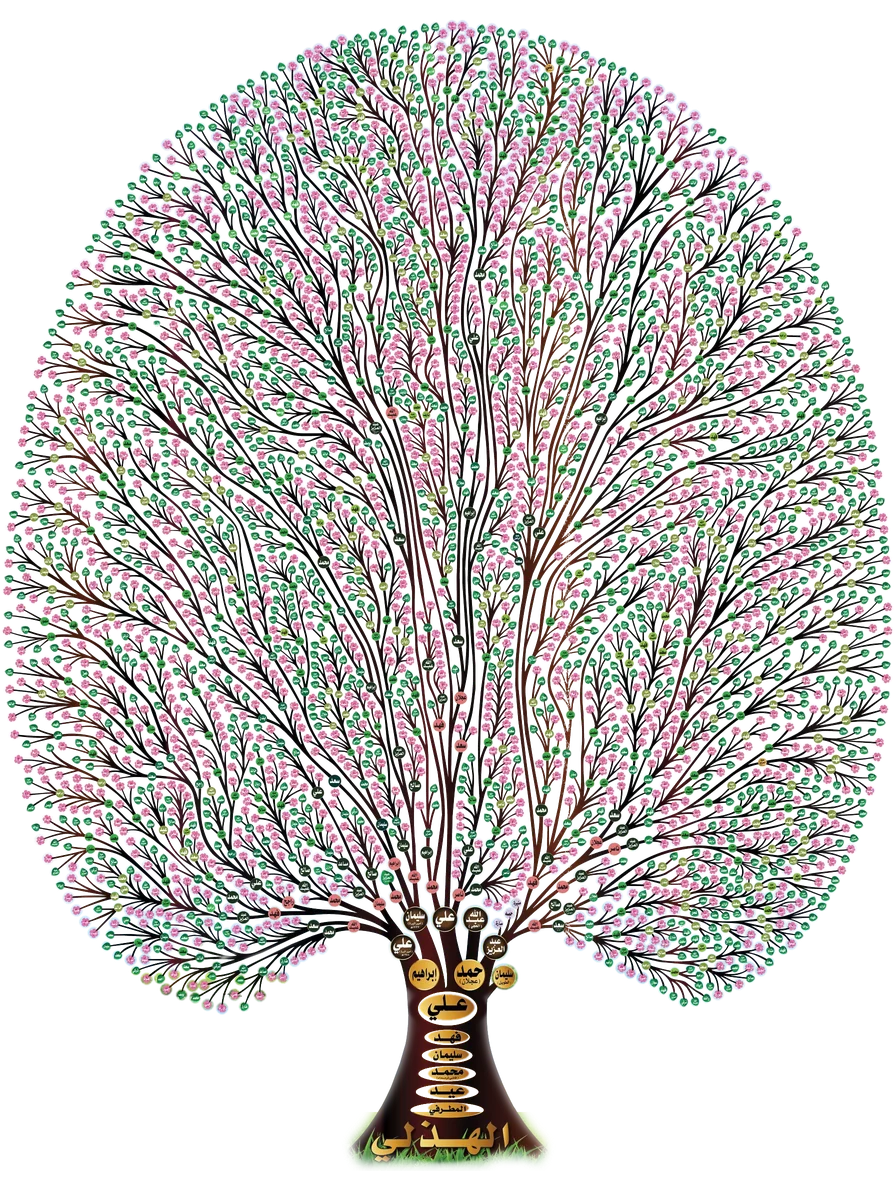
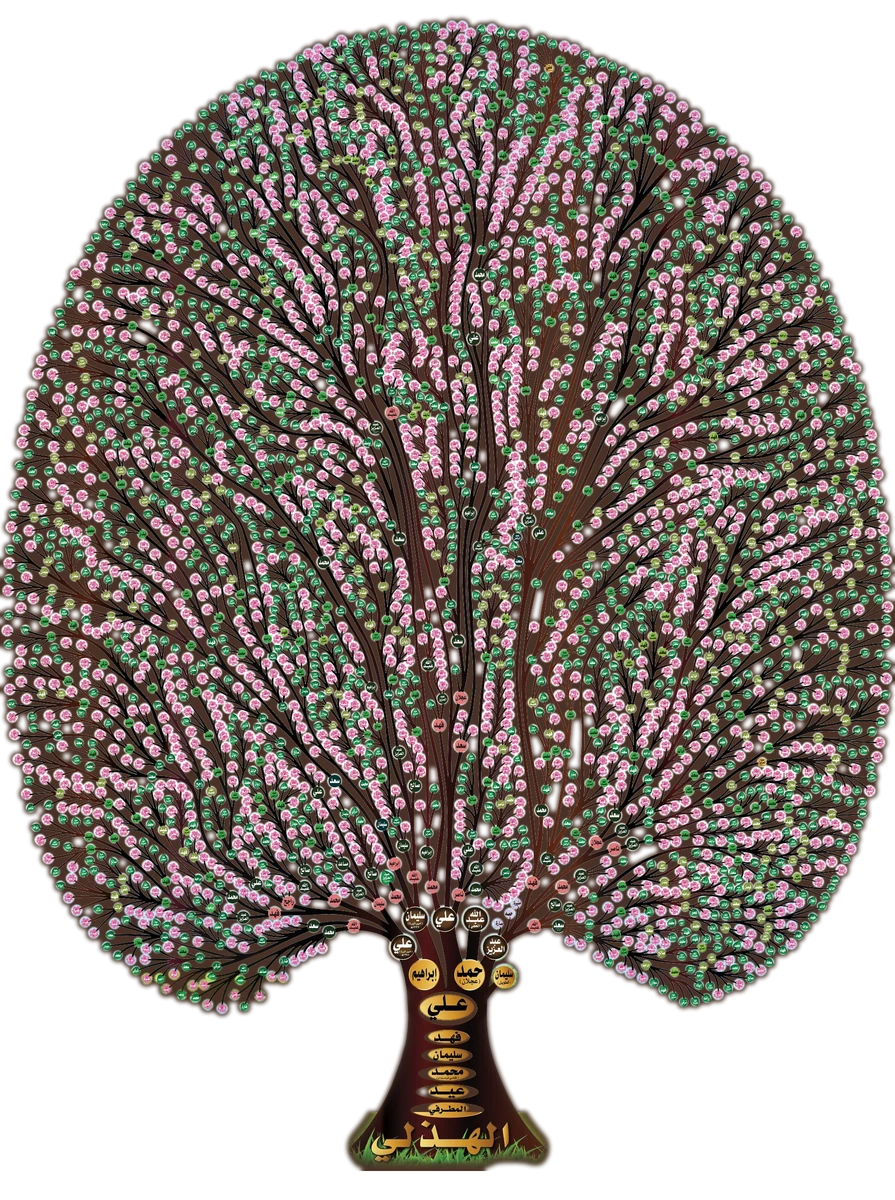
Homepage tree: crisp like the tree page (crown backing, above haze)

diff --git a/portal/home.preClear.css b/portal/home.preClear.css
@@ -1,0 +1,309 @@
+/* الصفحة الرئيسية «الديرة عند الغروب» — حسب portal/تصميم-الرئيسية.md */
+body.home{background:#2A2148}
+#scene{position:fixed;inset:0;z-index:-2;background:url(img/bg-scene.jpg?v=3) center bottom/cover no-repeat}
+#scene::after{content:"";position:absolute;inset:0;background:linear-gradient(180deg,rgba(20,16,48,.10) 0%,rgba(20,16,48,.18) 45%,rgba(20,16,48,.55) 80%,rgba(20,16,48,.78) 100%)}
+@media (max-width:639px){#scene{background-image:url(img/bg-scene-portrait.jpg?v=3);background-position:50% 78%}}
+.glass-panel{background:rgba(251,250,247,.88);backdrop-filter:blur(18px) saturate(1.2);-webkit-backdrop-filter:blur(18px) saturate(1.2);border:1px solid rgba(255,255,255,.6);box-shadow:0 24px 64px rgba(20,16,48,.28)}
+.hwrap{width:min(1280px,100% - 32px);margin-inline:auto}
+
+/* البانر بعرض الشاشة */
+.hb{position:relative;margin-top:var(--nav);height:360px;overflow:hidden;background:#1A1448;border-bottom:1px solid rgba(192,133,55,.7);box-shadow:0 24px 48px -12px rgba(20,16,48,.45)}
+@media (max-width:1023px){.hb{height:clamp(240px,32vw,320px)}}
+@media (max-width:639px){.hb{height:auto;aspect-ratio:16/9}}
+.hb .s{position:absolute;inset:0;opacity:0;transition:opacity .9s cubic-bezier(.4,0,.2,1)}
+.hb .s.on{opacity:1}
+.hb .s img{width:100%;height:100%;object-fit:cover;object-position:center;transform:scale(1.04);transition:transform 7s linear}
+.hb .s.on img{transform:scale(1)}
+.hb::after{content:"";position:absolute;inset:auto 0 0;height:30%;background:linear-gradient(0deg,rgba(20,16,48,.45),transparent);pointer-events:none}
+.hb .bars{position:absolute;z-index:3;bottom:20px;left:0;right:0;display:flex;justify-content:center;gap:8px}
+.hb .bars button{width:44px;height:24px;border:0;background:none;cursor:pointer;display:grid;place-items:center;padding:0}
+.hb .bars i{display:block;width:28px;height:3px;border-radius:3px;background:rgba(255,255,255,.4);overflow:hidden;position:relative}
+.hb .bars i b{position:absolute;inset:0 0 0 auto;width:0;background:#E3B66B}
+.hb .pp{position:absolute;z-index:3;bottom:16px;left:16px;width:36px;height:36px;border-radius:50%;border:0;background:rgba(20,16,48,.45);backdrop-filter:blur(8px);color:#fff;display:grid;place-items:center;cursor:pointer}
+.hb .ar{position:absolute;z-index:3;top:50%;margin-top:-22px;width:44px;height:44px;border-radius:50%;border:0;background:rgba(251,250,247,.85);color:var(--navy);display:grid;place-items:center;cursor:pointer;opacity:0;transition:opacity .2s}
+.hb:hover .ar{opacity:1}
+.hb .ar.prev{right:24px}.hb .ar.next{left:24px}
+@media (max-width:639px){.hb .ar{display:none}.hb .bars i{width:20px}}
+
+/* الشبكة: الشجرة يمين، السجل يسار */
+.hgrid{display:grid;grid-template-columns:392px 1fr;grid-template-areas:"tree news";gap:32px;padding-top:56px;align-items:start}
+@media (max-width:1023px){.hgrid{grid-template-columns:1fr;grid-template-areas:"news" "tree";gap:24px;padding-top:24px}}
+
+/* سجل الأسرة */
+.log{grid-area:news;border-radius:24px;padding:32px;min-height:700px;display:flex;flex-direction:column}
+.log-h{display:flex;align-items:flex-end;justify-content:space-between;gap:12px}
+.log-h small{display:block;font-size:13px;font-weight:700;color:#8A5A1C}
+.log-h h2{font-size:28px;font-weight:800;color:var(--navy);line-height:1.3}
+.log-h a{font-size:15px;font-weight:700;color:#8A5A1C;display:inline-flex;gap:6px;align-items:center}
+.log-h a span{transition:transform .2s}.log-h a:hover{text-decoration:underline}.log-h a:hover span{transform:translateX(-4px)}
+.seg{position:relative;display:inline-flex;margin-top:20px;padding:4px;border-radius:999px;background:#F1EDE4;max-width:100%;overflow-x:auto;scrollbar-width:none}
+.seg::-webkit-scrollbar{display:none}
+.seg .puck{position:absolute;top:4px;bottom:4px;border-radius:999px;background:#fff;box-shadow:0 1px 3px rgba(20,16,48,.12);transition:all .26s cubic-bezier(.4,0,.2,1)}
+.seg button{position:relative;z-index:1;height:32px;padding:0 16px;border:0;background:none;border-radius:999px;font:700 14px Cairo,sans-serif;color:#1B1833;white-space:nowrap;cursor:pointer}
+.seg button small{font-size:12px;font-weight:600;color:#5B5670;margin-inline-start:4px}
+.seg button.on{color:var(--navy)}
+.log-b{display:grid;grid-template-columns:1fr 296px;gap:24px;margin-top:20px;flex:1}
+.idx{transition:opacity .18s}
+.row{position:relative;display:grid;grid-template-columns:64px 1fr;align-items:center;min-height:76px;padding:6px 12px 6px 0;border-bottom:1px solid #E8E3D8;border-radius:12px;transition:background .2s}
+.row:last-child{border-bottom-color:transparent}
+.row::before{content:"";position:absolute;right:0;top:12px;bottom:12px;width:3px;border-radius:3px;background:var(--gold);transform:scaleY(0);transition:transform .2s}
+.row.on,.row:hover,.row:focus-visible{background:#fff;outline:none}
+.row.on::before,.row:hover::before{transform:scaleY(1)}
+.row .dt{text-align:center;border-inline-end:1px solid #E8E3D8;padding-inline-end:8px;margin-inline-end:16px;line-height:1.2}
+.row .dt b{display:block;font-size:28px;font-weight:800;color:#8A5A1C}
+.row .dt small{font-size:12px;font-weight:600;color:#5B5670}
+.row .tx em{font-style:normal;font-size:12px;font-weight:700;color:#5B5670;display:flex;align-items:center;gap:6px}
+.row .tx em i{width:7px;height:7px;transform:rotate(45deg);display:inline-block}
+.row .tx b{font-size:16px;font-weight:700;color:#1B1833;line-height:1.55;display:-webkit-box;-webkit-line-clamp:2;-webkit-box-orient:vertical;overflow:hidden}
+.row.on .tx b,.row:hover .tx b{color:var(--navy)}
+.row .th{display:none}
+.pv{position:relative}
+.pv .ph{position:relative;aspect-ratio:4/5;border-radius:16px;overflow:hidden;box-shadow:0 12px 28px rgba(20,16,48,.18);background:var(--navy)}
+.pv .ph img{position:absolute;inset:0;width:100%;height:100%;object-fit:cover;object-position:center 25%;transition:opacity .28s,transform .28s}
+.pv .ph .date{position:absolute;z-index:2;bottom:12px;right:12px;padding:4px 10px;border-radius:999px;background:rgba(20,16,48,.55);backdrop-filter:blur(8px);color:#fff;font-size:12px;font-weight:700}
+.pv p{margin-top:14px;font-size:14px;color:#5B5670;line-height:1.8;display:-webkit-box;-webkit-line-clamp:3;-webkit-box-orient:vertical;overflow:hidden}
+.years{display:flex;align-items:center;gap:8px;flex-wrap:wrap;margin-top:18px}
+.years span{font-size:13px;font-weight:700;color:#5B5670}
+.years a{height:32px;display:inline-flex;align-items:center;padding:0 12px;border-radius:999px;border:1px solid #D6CEBD;font-size:13px;font-weight:700;color:#1B1833}
+.years a:hover{background:#EEECF8;color:var(--navy)}
+.log .allm{display:none}
+@media (max-width:1023px){
+  .log{padding:20px;border-radius:20px;min-height:0}
+  .log-b{grid-template-columns:1fr}.pv{display:none}
+  .row{grid-template-columns:52px 1fr 72px;min-height:96px;gap:0}
+  .row .dt b{font-size:24px}
+  .row .th{display:block;width:72px;height:72px;border-radius:12px;background:#E8E3D8 center/cover;margin-inline-start:10px}
+  .row .tx b{font-size:15px}
+  .years{display:none}
+  .log .allm{display:flex;margin-top:14px;height:48px;border-radius:14px;border:1.5px solid var(--navy);color:var(--navy);font-weight:700;font-size:15px;align-items:center;justify-content:center}
+}
+
+/* الشجرة */
+.htree{grid-area:tree;position:relative}
+.htree .halo{position:absolute;inset:0 0 140px;background:radial-gradient(ellipse 60% 55% at 50% 45%,rgba(20,16,48,.42),transparent 70%);pointer-events:none}
+.htree .st{position:relative;height:560px}
+.htree .st img{position:absolute;left:50%;bottom:40px;height:500px;width:auto;max-width:none;transform:translateX(-50%);filter:drop-shadow(0 18px 24px rgba(0,0,0,.35));transition:filter .5s}
+.htree .st img.pulse{filter:drop-shadow(0 18px 24px rgba(0,0,0,.35)) drop-shadow(0 6px 14px rgba(227,182,107,.75))}
+.htree .ground{position:absolute;left:50%;bottom:30px;width:260px;height:28px;margin-left:-130px;border-radius:50%;background:rgba(10,8,24,.55);filter:blur(10px)}
+.htree .gbar{position:absolute;left:50%;bottom:24px;width:120px;height:2px;margin-left:-60px;border-radius:2px;background:#E3B66B;opacity:.35;transition:opacity .6s,box-shadow .6s}
+.htree canvas{position:absolute;inset:0;width:100%;height:100%;pointer-events:none}
+.tinfo{border-radius:20px;padding:20px;display:flex;flex-direction:column;gap:6px}
+.tinfo .l1{font-size:15px;font-weight:700;color:#1B1833}
+.tinfo .l1 b{color:var(--navy);font-weight:800}
+.tinfo .live{font-size:13px;font-weight:600;color:#8A5A1C;min-height:22px;transition:opacity .2s}
+.tinfo .cta{margin-top:6px;height:48px;border-radius:14px;background:#C08537;color:#1B1833;font-size:15px;font-weight:800;display:flex;align-items:center;justify-content:center;gap:8px;transition:background .2s}
+.tinfo .cta:hover{background:#B4772C}
+@media (max-width:1023px){.htree{width:min(420px,100%);margin-inline:auto}}
+@media (max-width:639px){.htree .st{height:470px}.htree .st img{height:420px}}
+
+/* وصول سريع */
+.quick{display:grid;grid-template-columns:repeat(6,1fr);gap:16px;margin-top:64px}
+.qa{border-radius:20px;padding:20px;display:flex;flex-direction:column;gap:6px;min-height:128px;background:rgba(251,250,247,.86);backdrop-filter:blur(16px);-webkit-backdrop-filter:blur(16px);border:1px solid rgba(255,255,255,.6);transition:all .2s}
+.qa i{width:48px;height:48px;border-radius:50%;display:grid;place-items:center;background:#FBF3E6;color:#C08537;transition:all .2s}
+.qa b{font-size:16px;font-weight:800;color:#1B1833}
+.qa small{font-size:13px;font-weight:500;color:#5B5670;line-height:1.5}
+.qa:hover{background:#fff;transform:translateY(-3px);box-shadow:0 16px 32px rgba(20,16,48,.25)}
+.qa:hover i{background:#EEECF8;color:var(--navy)}
+@media (max-width:1023px){.quick{grid-template-columns:repeat(3,1fr)}}
+@media (max-width:639px){.quick{grid-template-columns:repeat(2,1fr);gap:12px;margin-top:32px}.qa{min-height:104px;padding:16px}.qa i{width:40px;height:40px}}
+.breath{height:96px}
+@media (max-width:639px){.breath{height:64px}}
+body.home footer{margin-top:0}
+@media (prefers-reduced-motion:reduce){.hb .s img{transition:none;transform:none}}
+.hgrid>*,.log-b>*,.log>*{min-width:0}
+.seg{max-width:100%}
+
+/* ===== تعديل: البانر أصغر ويطفو فوق المشهد، والمشهد يبان من حوله ومن خلاله ===== */
+.hb{width:min(1180px,100% - 32px);height:300px;margin:calc(var(--nav) + 28px) auto 0;border-radius:24px;border:1px solid rgba(255,255,255,.35);
+  background:rgba(26,20,72,.18);box-shadow:0 30px 60px -20px rgba(20,16,48,.55),0 0 0 6px rgba(251,250,247,.12);backdrop-filter:blur(2px)}
+.hb .s img{opacity:.9;-webkit-mask-image:linear-gradient(90deg,transparent 0%,#000 9%,#000 91%,transparent 100%);mask-image:linear-gradient(90deg,transparent 0%,#000 9%,#000 91%,transparent 100%)}
+.hb::before{content:"";position:absolute;inset:0;z-index:2;pointer-events:none;border-radius:inherit;box-shadow:inset 0 0 60px rgba(20,16,48,.35);background:linear-gradient(180deg,rgba(227,182,107,.08),transparent 40%)}
+.hb::after{border-radius:0 0 24px 24px}
+@media (max-width:1023px){.hb{height:clamp(200px,28vw,280px)}}
+@media (max-width:639px){.hb{height:auto;aspect-ratio:16/9;border-radius:18px;margin-top:calc(var(--nav) + 14px)}.hb .s img{-webkit-mask-image:none;mask-image:none}}
+.hgrid{padding-top:40px}
+
+/* يوميات الأسرة: لوح أشف يبان من وراه الغروب */
+.log.glass-panel,.tinfo.glass-panel{background:rgba(251,250,247,.72);backdrop-filter:blur(14px) saturate(1.25);-webkit-backdrop-filter:blur(14px) saturate(1.25);border:1px solid rgba(255,255,255,.5)}
+.row{transition:background .2s}
+.row.on,.row:hover{background:rgba(255,255,255,.82)}
+.seg{background:rgba(241,237,228,.75)}
+.qa{background:rgba(251,250,247,.72)}
+
+/* الشريط العلوي زجاج شفاف ينعكس فيه المشهد */
+body.home .nav{background:linear-gradient(180deg,rgba(255,255,255,.52),rgba(251,250,247,.34));backdrop-filter:blur(20px) saturate(1.7) brightness(1.08);-webkit-backdrop-filter:blur(20px) saturate(1.7) brightness(1.08);
+  border-bottom:1px solid rgba(255,255,255,.45);box-shadow:inset 0 1px 0 rgba(255,255,255,.7),0 10px 30px rgba(20,16,48,.12)}
+body.home .nav::before{content:"";position:absolute;inset:0;pointer-events:none;background:linear-gradient(105deg,transparent 30%,rgba(255,255,255,.28) 45%,transparent 60%);opacity:.7}
+body.home .nav.solid{background:rgba(251,250,247,.86);border-bottom-color:rgba(192,133,55,.35)}
+body.home .menu>a,body.home .dd-b{color:#141030;text-shadow:0 1px 0 rgba(255,255,255,.55)}
+body.home .tree-btn{background:rgba(50,39,129,.88);backdrop-filter:blur(6px);box-shadow:inset 0 1px 0 rgba(255,255,255,.25),0 6px 16px rgba(20,16,48,.25)}
+
+/* ===== نافذة الديرة: المشهد ظاهر كامل بلا غطاء، والشجرة في الساحة بين الجبل والبرج ===== */
+.vista{position:relative;margin-top:28px;border-radius:26px;overflow:hidden;aspect-ratio:2.25/1;box-shadow:0 30px 60px -20px rgba(20,16,48,.55),0 0 0 1px rgba(255,255,255,.35)}
+.vista .vbg{position:absolute;inset:0;background:url(img/bg-scene.jpg?v=3) center 18%/100% auto no-repeat}
+.vista .vbg::after{content:"";position:absolute;inset:0;background:linear-gradient(0deg,rgba(20,16,48,.45) 0%,transparent 26%)}
+/* الشجرة: قاعدتها على أرض الساحة (١١٪ من الأسفل) وبين الجبل (٣٦٪) والبرج (٧٧٪) */
+.vista .vtree{position:absolute;left:57%;bottom:9.5%;height:64%;transform:translateX(-50%);aspect-ratio:1790/2342}
+.vista .vtree img{width:100%;height:100%;filter:drop-shadow(0 12px 16px rgba(0,0,0,.4));transition:filter .5s}
+.vista .vtree img.pulse{filter:drop-shadow(0 12px 16px rgba(0,0,0,.4)) drop-shadow(0 4px 14px rgba(255,214,140,.9))}
+.vista canvas{position:absolute;inset:0;width:100%;height:100%;pointer-events:none}
+.vcap{position:absolute;right:22px;bottom:18px;display:flex;align-items:center;gap:14px;padding:10px 16px;border-radius:14px;background:rgba(20,16,48,.45);backdrop-filter:blur(10px);-webkit-backdrop-filter:blur(10px);color:#fff}
+.vcap b{font-size:16px;font-weight:800}
+.vcap span{font-size:13px;color:#F6E2B6;min-width:150px;transition:opacity .2s}
+.vcap a{font-size:14px;font-weight:800;color:#E3B66B;white-space:nowrap}
+.hgrid.one{grid-template-columns:1fr;grid-template-areas:"news";padding-top:28px}
+.hgrid.one .log{min-height:0}
+.hgrid.one .log-b{grid-template-columns:1fr 340px}
+@media (max-width:1023px){.hgrid.one .log-b{grid-template-columns:1fr}}
+@media (max-width:639px){
+  .vista{aspect-ratio:4/5;margin-top:16px;border-radius:20px}
+  .vista .vbg{background-size:auto 100%;background-position:58% 0}
+  .vista .vtree{left:52%;bottom:13%;height:52%}
+  .vcap{left:12px;right:12px;bottom:12px;justify-content:space-between;gap:8px;padding:8px 12px}.vcap span{display:none}
+}
+/* الخلفية الثابتة خلف الرئيسية تصير جو مغبش، والمعالم الواضحة في نافذة الديرة فقط */
+body.home:not(.mags) #scene{filter:blur(16px) brightness(.72) saturate(1.15);transform:scale(1.08)}
+/* نافذة الديرة مع الخلفية السابقة (٢٫٤:١): الجبل يسار، البرج يمين، والأرض عند ٧٩٪ */
+.vista .vbg{background-size:cover;background-position:center 50%}
+.vista .vtree{left:56%;bottom:15%;height:62%}
+@media (max-width:639px){.vista .vbg{background-size:auto 100%;background-position:52% 0}.vista .vtree{left:50%;bottom:17%;height:50%}}
+@media (max-width:639px){.vista .vbg{background-image:url(img/bg-scene-portrait.jpg?v=3);background-size:100% auto;background-position:center 100%}.vista .vtree{left:47%;bottom:16%;height:50%}}
+/* الخلفية كاملة وواضحة في الرئيسية بعد (بطلب فهد) */
+body.home:not(.mags) #scene{filter:none;transform:none}
+/* نافذة الديرة على الخلفية الجديدة (١٦:٩): الجبل والشمس يسار، والبرج يمين، والأرض عند ٨٣٪ */
+.vista{aspect-ratio:16/9}
+.vista .vbg{background-image:url(img/bg-scene.jpg?v=3);background-size:cover;background-position:center}
+.vista .vtree{left:64%;bottom:15%;height:60%}
+@media (max-width:639px){.vista{aspect-ratio:4/3}.vista .vbg{background-image:url(img/bg-scene.jpg?v=3);background-size:cover;background-position:center}.vista .vtree{left:63%;bottom:15%;height:58%}}
+
+/* الصفحات الداخلية بنفس فكرة الرئيسية */
+.hgrid.inner{padding-top:0;align-items:start}
+.hgrid.inner .inner-main{grid-area:news;min-width:0}
+.hgrid.inner .htree{position:sticky;top:calc(var(--nav) + 16px)}
+.hgrid.inner .news-grid{grid-template-columns:repeat(auto-fill,minmax(220px,1fr))}
+.hgrid.inner .vm,.hgrid.inner .two,.hgrid.inner .contact{grid-template-columns:1fr}
+.hgrid.inner .goals{grid-template-columns:1fr}
+.hgrid.inner .orbit-wrap{grid-template-columns:1fr;min-height:0;gap:10px}
+.hgrid.inner .orbit-wrap .oinfo{text-align:center}
+.hgrid.inner .orbit{width:min(560px,100%)}
+@media (max-width:1023px){.hgrid.inner .htree{position:relative;top:0}}
+.hgrid.inner{width:min(1280px,100% - 32px);margin-inline:auto}
+.hgrid.inner .inner-main.wrap{width:auto;margin:0}
+.hwrap .hgrid.inner{width:100%}
+
+/* الشجرة مغروسة: كومة رمل نجدي تحت الجذع تغطي العشب، مع ظل وحصى */
+.mound{position:absolute;left:50%;transform:translateX(-50%);pointer-events:none;z-index:2}
+.mound i{position:absolute;left:50%;transform:translateX(-50%);border-radius:50%}
+.mound .sh{bottom:-6%;width:120%;height:40%;background:radial-gradient(ellipse at 50% 50%,rgba(40,20,8,.55),transparent 70%);filter:blur(6px)}
+.mound .soil{bottom:0;width:100%;height:100%;border-radius:50% 50% 46% 46%/70% 70% 30% 30%;
+  background:radial-gradient(ellipse at 50% 18%,#e3b07a 0%,#c98f57 38%,#9c6a3b 70%,#6e4625 100%);
+  box-shadow:inset 0 6px 10px rgba(255,220,170,.35),inset 0 -8px 14px rgba(60,30,10,.45)}
+.mound .soil::after{content:"";position:absolute;inset:18% 12% 30%;border-radius:50%;opacity:.55;
+  background:radial-gradient(circle,#7a5030 1.2px,transparent 1.6px) 0 0/9px 7px,radial-gradient(circle,#f0c690 1px,transparent 1.4px) 4px 3px/11px 8px}
+.mound .rim{bottom:62%;width:46%;height:22%;background:radial-gradient(ellipse at 50% 60%,rgba(60,30,10,.55),transparent 70%)}
+/* مكانها تحت الشجرة في كل الصفحات */
+.htree .st .mound{bottom:22px;width:230px;height:46px}
+.htree .ground{display:none}
+.orbit .otree .mound{left:50%;bottom:-5%;width:62%;height:12%}
+@media (max-width:639px){.htree .st .mound{width:200px;height:40px}}
+
+/* تراب حقيقي تحت الشجرة (خلف قاعدة الجذع، فتبان «الهذلي» فوقه) */
+.mound{display:none}
+.soilimg{position:absolute;left:50%;transform:translateX(-50%);z-index:0;pointer-events:none;filter:drop-shadow(0 10px 12px rgba(30,15,5,.45))}
+.htree .st img#treeImg,.orbit .otree img#treeImg,.vista .vtree img{z-index:1}
+.htree .st .soilimg{bottom:14px;width:330px}
+.orbit .otree #treeImg{position:absolute;z-index:1}
+.orbit .otree .soilimg{bottom:-9%;width:96%}
+.orbit .otree canvas{z-index:2}
+.htree canvas{z-index:2}
+@media (max-width:639px){.htree .st .soilimg{width:290px;bottom:16px}}
+.htree .st img.soilimg{height:auto;max-width:none;bottom:14px;width:330px;filter:drop-shadow(0 10px 12px rgba(30,15,5,.45));transform:translateX(-50%)}
+.orbit .otree img.soilimg{inset:auto;top:auto;height:auto;left:50%;bottom:-9%;width:96%;filter:drop-shadow(0 10px 12px rgba(30,15,5,.45));transform:translateX(-50%)}
+@media (max-width:639px){.htree .st img.soilimg{width:290px;bottom:16px}}
+
+/* الشجرة مغروسة في أرض نجدية: طبقة تراب فوق قاعدة الجذع بإحداثيات الصورة نفسها (1700×422 من 1790×2342)،
+   فيها فتحة بشكل الجذع فوق خط دخوله في التراب فيبقى «الهذلي» ظاهراً فوقها */
+.htree .st{--th:500px}
+@media (max-width:639px){.htree .st{--th:420px}}
+.htree .st img.soilimg{left:50%;bottom:calc(40px - var(--th) * 180 / 2342);width:calc(var(--th) * 1700 / 2342);height:auto;max-width:none;filter:drop-shadow(0 5px 8px rgba(24,10,20,.5));transform:translateX(-50%);z-index:2}
+.orbit .otree img.soilimg{inset:auto;left:50%;bottom:-7.686%;width:94.97%;height:auto;filter:drop-shadow(0 5px 8px rgba(24,10,20,.5));transform:translateX(-50%);z-index:2}
+.htree canvas,.orbit .otree canvas{z-index:3}
+.htree .gbar{display:none}
+
+/* الشجرة ثابتة مثل جزء من الخلفية: مغروسة في الأرض يمين الشاشة، والمحتوى يتحرك وهي مكانها */
+@media (min-width:1024px){
+  .hgrid>.htree{position:fixed;z-index:1;bottom:12px;right:max(16px,calc((100vw - 1280px)/2));width:392px;
+    --sh:min(560px,calc(100vh - var(--nav) - 200px))}
+  .hgrid>.htree .st{height:var(--sh)}
+  .hgrid>.htree .st img#treeImg{height:calc(var(--sh) - 60px)}
+  .hgrid.inner>.htree{top:auto}
+  .hgrid>.htree .tinfo{margin-top:-4px}
+  .hgrid::after{content:"";grid-area:tree}
+  footer{position:relative;z-index:3}
+}
+@media (min-width:1024px){
+  .hgrid>.htree,.hgrid.inner>.htree{position:fixed;top:auto;z-index:0}
+  .hb,.hgrid>.log,.hgrid.inner>.inner-main,.quick,.more,.mhead{position:relative;z-index:1}
+}
+
+/* الشجرة مغروسة على أرض الخلفية (أسفل الشاشة) قدام البرج، بدون لوحة تحتها */
+@media (min-width:1024px){
+  .hgrid>.htree,.hgrid.inner>.htree{bottom:0;--sh:min(680px,calc(100vh - var(--nav) - 40px));width:440px;right:max(0px,calc((100vw - 1280px)/2 - 30px))}
+  .hgrid>.htree .st{height:var(--sh)}
+  .hgrid>.htree .st img#treeImg{height:calc(var(--sh) - 50px);bottom:30px}
+  .hgrid>.htree .halo{inset:0}
+}
+.tinfo{display:none}
+.tlink{position:absolute;z-index:3;left:50%;bottom:6px;transform:translateX(-50%);display:inline-flex;align-items:center;gap:6px;padding:5px 12px;border-radius:999px;
+  background:rgba(20,16,48,.55);backdrop-filter:blur(6px);color:#F6E2B6;font-size:12px;font-weight:700;white-space:nowrap;opacity:.85;transition:opacity .2s,background .2s}
+.tlink:hover{opacity:1;background:rgba(192,133,55,.9);color:#1B1833}
+@media (max-width:1023px){.htree{position:relative}.tlink{position:relative;left:auto;bottom:auto;transform:none;display:flex;width:max-content;margin:6px auto 0}}
+/* شجرة أصغر ومتناسقة: تبدأ تحت البانر وما تغطي البرج كله */
+@media (min-width:1024px){
+  .hgrid>.htree,.hgrid.inner>.htree{--sh:min(500px,calc(100vh - var(--nav) - 360px));width:360px;right:max(10px,calc((100vw - 1280px)/2))}
+}
+@media (min-width:1024px) and (max-height:820px){.hgrid>.htree,.hgrid.inner>.htree{--sh:max(340px,calc(100vh - var(--nav) - 330px))}}
+
+/* الرئيسية بدون بانر: الأخبار يمين، والشجرة يسار جهة الجبل وأكبر */
+body.home:not(.mags) .hgrid{grid-template-areas:"news tree";grid-template-columns:1fr 440px;padding-top:calc(var(--nav) + 26px)}
+@media (min-width:1024px){
+  body.home:not(.mags) .hgrid>.htree{right:auto;left:max(0px,calc((100vw - 1280px)/2 - 20px));width:480px;--sh:min(720px,calc(100vh - var(--nav) - 50px))}
+}
+@media (max-width:1023px){body.home:not(.mags) .hgrid{grid-template-areas:"news" "tree";grid-template-columns:1fr;padding-top:calc(var(--nav) + 16px)}}
+
+/* ===== شجرة السدر الواقعية داخل مشهد الخلفية (scenetree.js) — الرئيسية فقط ===== */
+.stree-l{position:absolute;inset:0;pointer-events:none}
+.stree-l img,.stree-l canvas{position:absolute;max-width:none;user-select:none}
+.stree-l .st-sh{mix-blend-mode:multiply;opacity:.9}
+.stree-l .st-tr{transform-origin:50% 93.68%;will-change:transform}
+.stree-l .st-nm{z-index:1}
+@media (max-width:639px){body.stree #scene{background-image:url(img/bg-home-portrait.jpg?v=202611030100);background-position:50% 35%}}
+body.home.stree:not(.mags) .hgrid>.htree{position:fixed;z-index:0;left:var(--tree-bx,25vw);right:auto;top:min(calc(var(--tree-by,90vh) + 8px),calc(100vh - 40px));bottom:auto;width:auto;transform:translateX(-50%)}
+body.home.stree .htree .tlink{position:static;transform:none;margin:0;display:inline-flex;box-shadow:0 4px 14px rgba(20,8,0,.35)}
+@media (max-width:1023px){body.home.stree:not(.mags) .hgrid{pointer-events:none}body.home.stree .hgrid>*{pointer-events:auto}}
+/* الجوال: المشهد كاملاً أعلى الشاشة (الجبل، الشجرة، البرج)، والسجل بطاقة زجاجية مختصرة تبدأ تحت قاعدة الشجرة */
+@media (max-width:639px){
+  body.home.stree:not(.mags) .hgrid{padding-top:calc(var(--tree-by0,58vh) + 52px);gap:0}
+  body.home.stree:not(.mags) .hgrid>.htree{z-index:0}
+  body.home.stree .log{position:relative;z-index:1;padding:18px 16px 16px;border-radius:24px}
+  body.home.stree .log-h h2{font-size:22px}
+  body.home.stree .log-h small{font-size:12px}
+  body.home.stree .seg{margin-top:12px}
+  body.home.stree .seg button{height:30px;padding:0 12px;font-size:13px}
+  body.home.stree .log-b{margin-top:10px}
+  body.home.stree .row{min-height:74px;grid-template-columns:46px 1fr 58px}
+  body.home.stree .row .dt b{font-size:20px}
+  body.home.stree .row .th{width:58px;height:58px;border-radius:10px}
+  body.home.stree .row .tx b{font-size:14px;line-height:1.5}
+  body.home.stree .row:nth-child(n+5){display:none}
+  body.home.stree .log .allm{height:44px;margin-top:10px}
+}
+/* الشجرة وأسماء جذعها تحت تظليل أخف حتى يبان الضوء الخلفي (الرئيسية فقط) */
+body.stree #scene::after{background:linear-gradient(180deg,rgba(20,16,48,.08) 0%,rgba(20,16,48,.12) 45%,rgba(20,16,48,.26) 80%,rgba(20,16,48,.4) 100%)}
+.stree-l .st-gl{z-index:1;mix-blend-mode:screen;opacity:.75;animation:stglow 5.5s ease-in-out infinite alternate}
+@keyframes stglow{from{opacity:.55}to{opacity:.95}}
+@media (prefers-reduced-motion:reduce){.stree-l .st-gl{animation:none}}
+/* رابط البحث على الأرض يمين الجذع حتى لا يغطي «الهذلي» */
+@media (min-width:640px){body.home.stree:not(.mags) .hgrid>.htree{left:calc(var(--tree-bx,25vw) + 64px);transform:none;top:min(calc(var(--tree-by,90vh) - 14px),calc(100vh - 40px))}}
+/* الوصول السريع تحت السجل فقط، فيبقى عمود الشجرة وجذعها ظاهراً */
+@media (min-width:1024px){body.home.stree:not(.mags) .quick{width:calc(100% - 472px);grid-template-columns:repeat(3,1fr)}}

diff --git a/portal/home.css b/portal/home.css
@@ -272,7 +272,7 @@ body.home:not(.mags) .hgrid{grid-template-areas:"news tree";grid-template-column
 @media (max-width:1023px){body.home:not(.mags) .hgrid{grid-template-areas:"news" "tree";grid-template-columns:1fr;padding-top:calc(var(--nav) + 16px)}}
 
 /* ===== شجرة السدر الواقعية داخل مشهد الخلفية (scenetree.js) — الرئيسية فقط ===== */
-.stree-l{position:absolute;inset:0;pointer-events:none}
+.stree-l{position:absolute;inset:0;pointer-events:none;z-index:1}
 .stree-l img,.stree-l canvas{position:absolute;max-width:none;user-select:none}
 .stree-l .st-sh{mix-blend-mode:multiply;opacity:.9}
 .stree-l .st-tr{transform-origin:50% 93.68%;will-change:transform}
@@ -307,3 +307,4 @@ body.stree #scene::after{background:linear-gradient(180deg,rgba(20,16,48,.08) 0%
 @media (min-width:640px){body.home.stree:not(.mags) .hgrid>.htree{left:calc(var(--tree-bx,25vw) + 64px);transform:none;top:min(calc(var(--tree-by,90vh) - 14px),calc(100vh - 40px))}}
 /* الوصول السريع تحت السجل فقط، فيبقى عمود الشجرة وجذعها ظاهراً */
 @media (min-width:1024px){body.home.stree:not(.mags) .quick{width:calc(100% - 472px);grid-template-columns:repeat(3,1fr)}}
+.stree-l .st-tr{filter:saturate(1.12) contrast(1.06);image-rendering:auto}

diff --git a/portal/index.html b/portal/index.html
@@ -10,7 +10,7 @@
 <link rel="preconnect" href="https://fonts.googleapis.com"><link rel="preconnect" href="https://fonts.gstatic.com" crossorigin>
 <link href="https://fonts.googleapis.com/css2?family=Cairo:wght@400;500;600;700;800&display=swap" rel="stylesheet">
 <link rel="stylesheet" href="style.css?v=202611021830">
-<link rel="stylesheet" href="home.css?v=202611030100">
+<link rel="stylesheet" href="home.css?v=202611031600">
 </head>
 <body class="home stree">
 <div id="scene" aria-hidden="true"></div>
@@ -43,7 +43,7 @@
 </main>
 
 <script src="common.js?v=202611021830"></script>
-<script src="scenetree.js?v=202611031500"></script>
+<script src="scenetree.js?v=202611031610"></script>
 <script>
 // ===== البانر (مع الموسمية) =====
 const BANNER = [

diff --git a/portal/scenetree.js b/portal/scenetree.js
@@ -3,7 +3,7 @@
 (() => {
   const scene = document.getElementById('scene'); if (!scene) return;
   const RM = matchMedia('(prefers-reduced-motion: reduce)').matches;
-  const V = '202611031500';
+  const V = '202611031610';
   const TK = .72;                               // تصغير الشجرة ليبان الجبل وراها
   // صورة الشجرة بإحداثيات المصدر: العرض، الارتفاع، ارتفاع الملصق الأصلي (لـ names.json)، قاعدة الجذع وخط الأرض
   const SRC = {w: 1790, h: 2400, h0: 2342, bx: 896.6, by: 2318};
